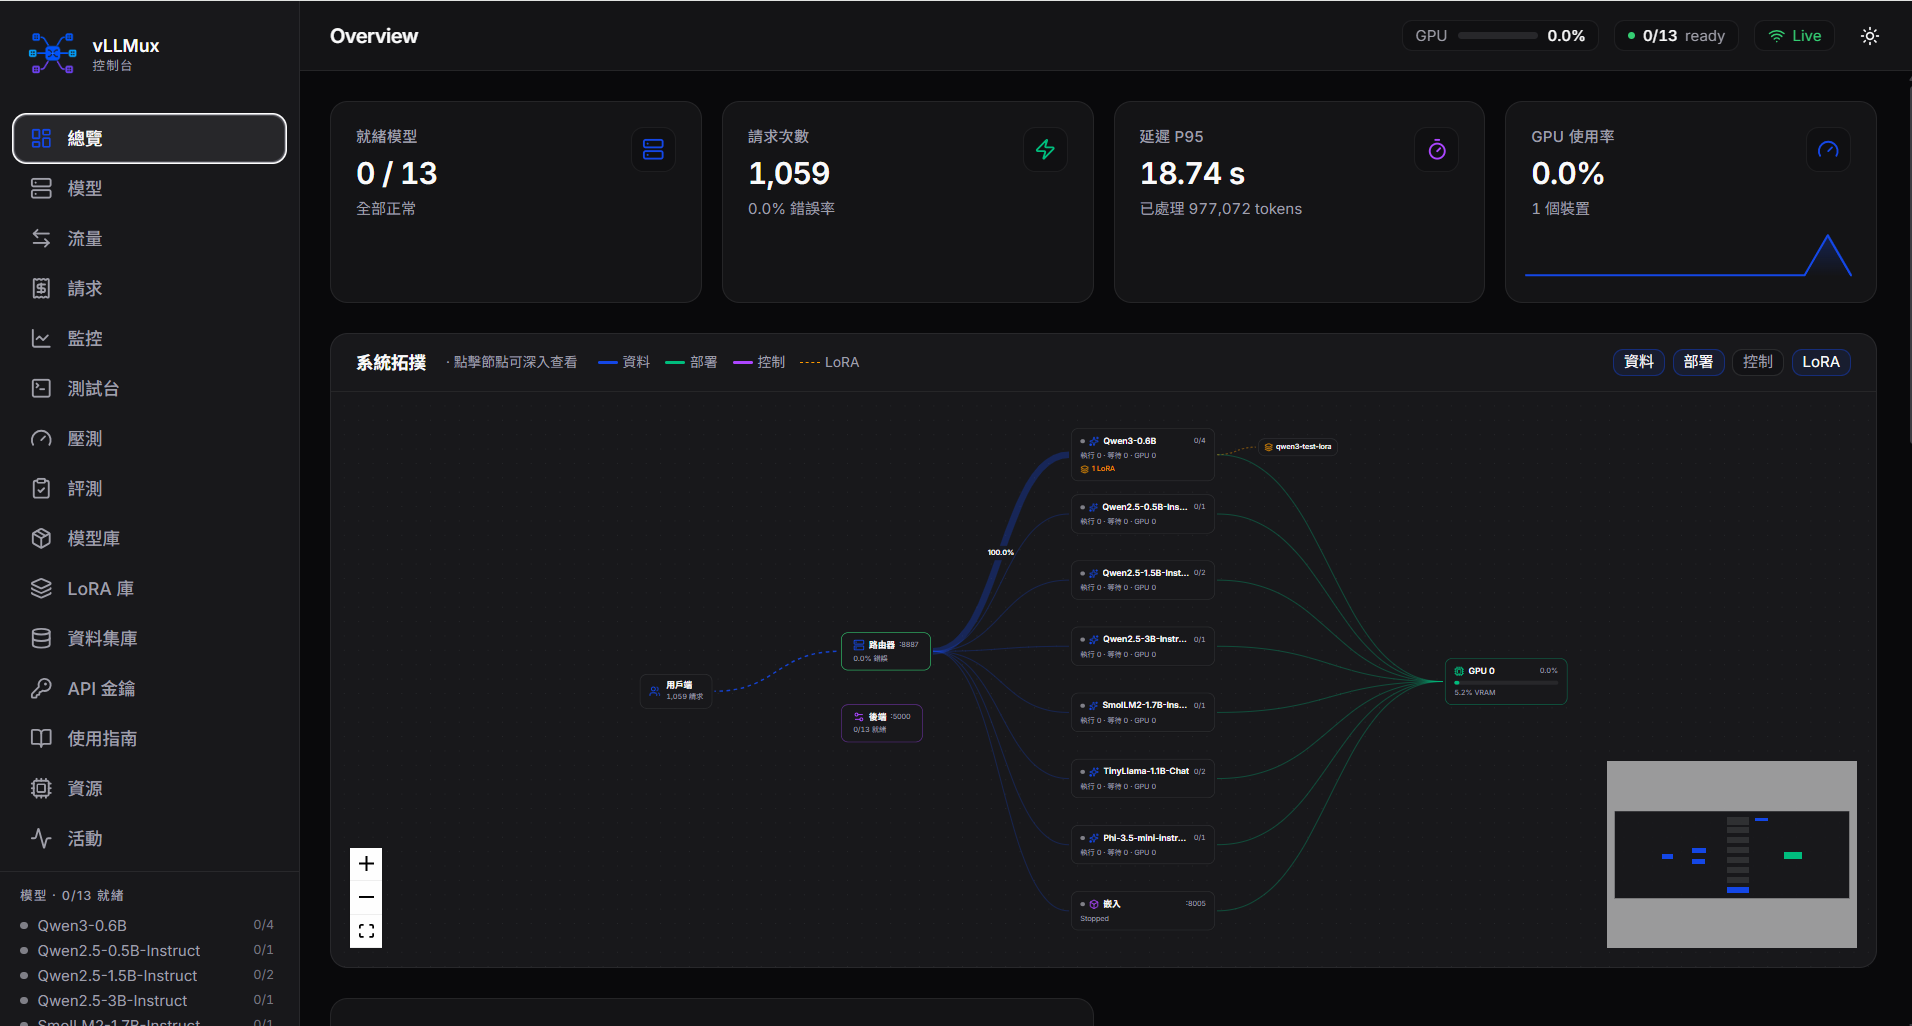
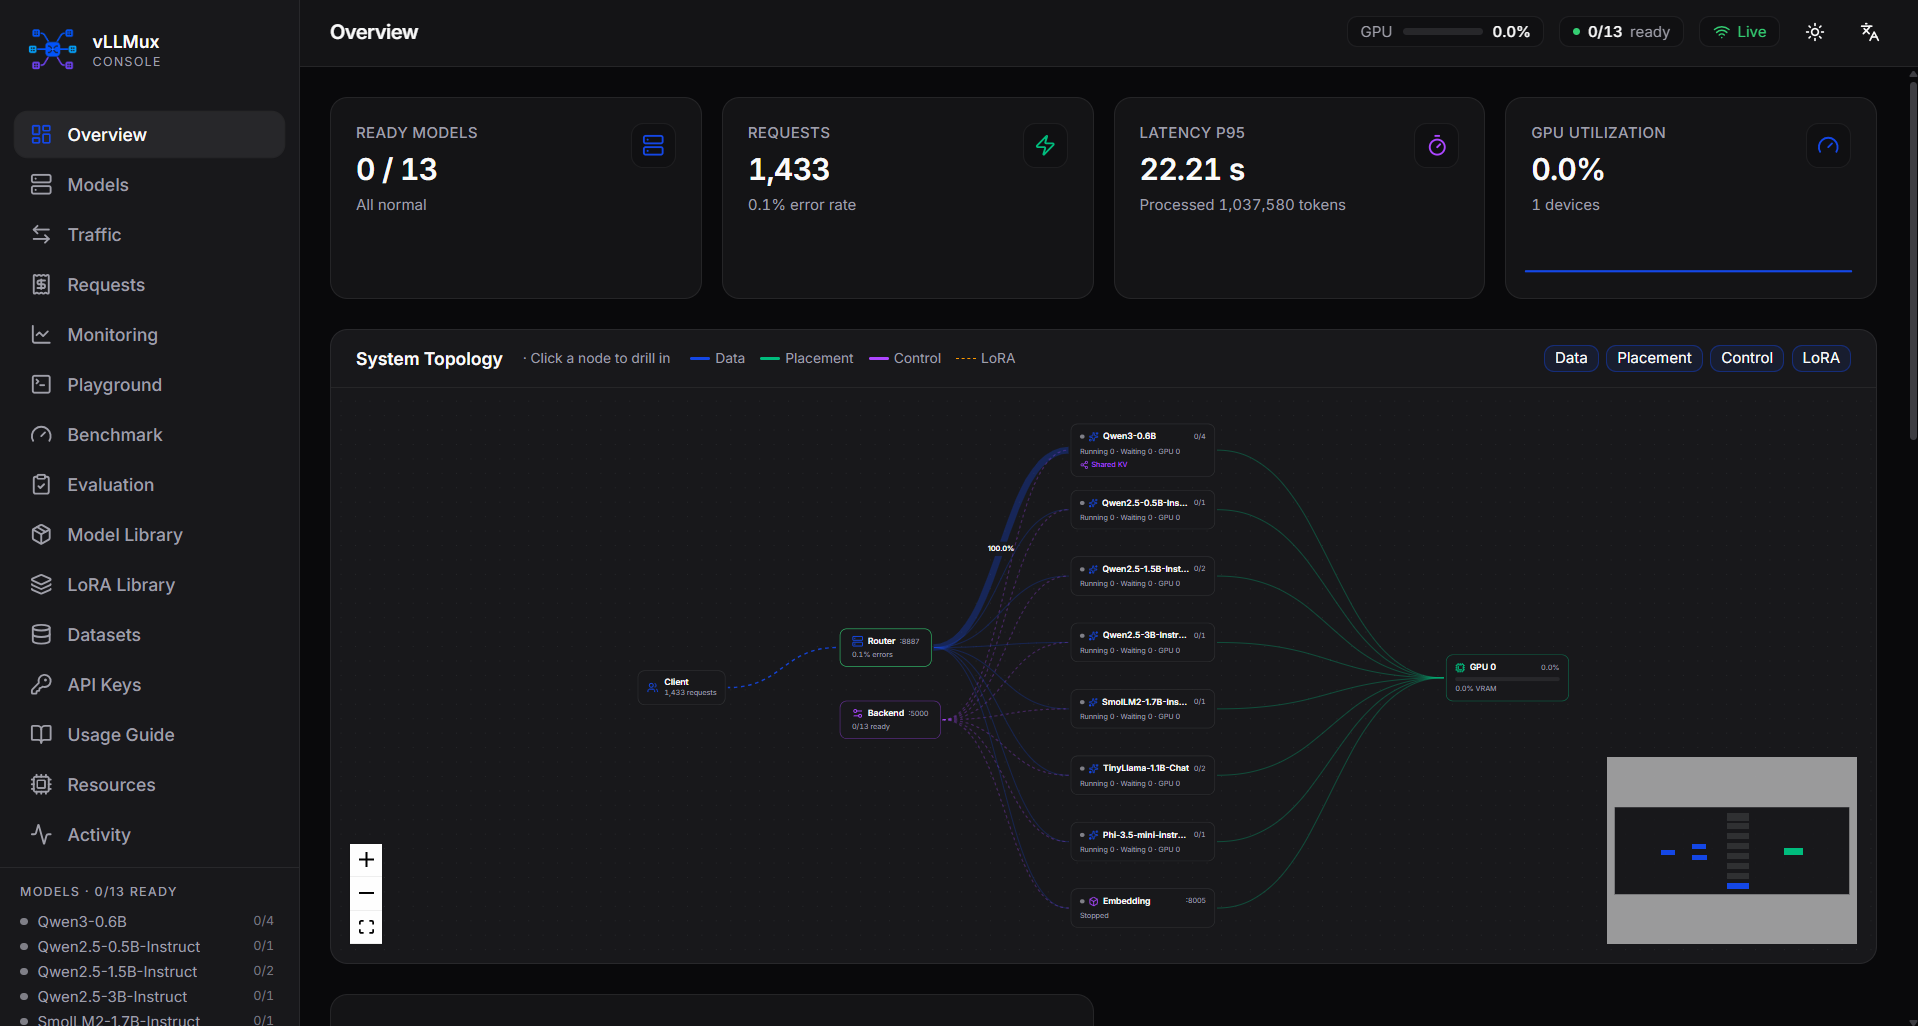
feat: add new console image and update README files

diff --git a/README.md b/README.md
@@ -15,6 +15,7 @@
 ![Main Console](assets/image0.png)
 ![Main Console](assets/image1.png)
 ![Main Console](assets/image2.png)
+![Main Console](assets/image3.png)
 
 </div>
 

diff --git a/README_zh-CN.md b/README_zh-CN.md
@@ -15,6 +15,7 @@
 ![Main Console](assets/image0.png)
 ![Main Console](assets/image1.png)
 ![Main Console](assets/image2.png)
+![Main Console](assets/image3.png)
 
 </div>
 